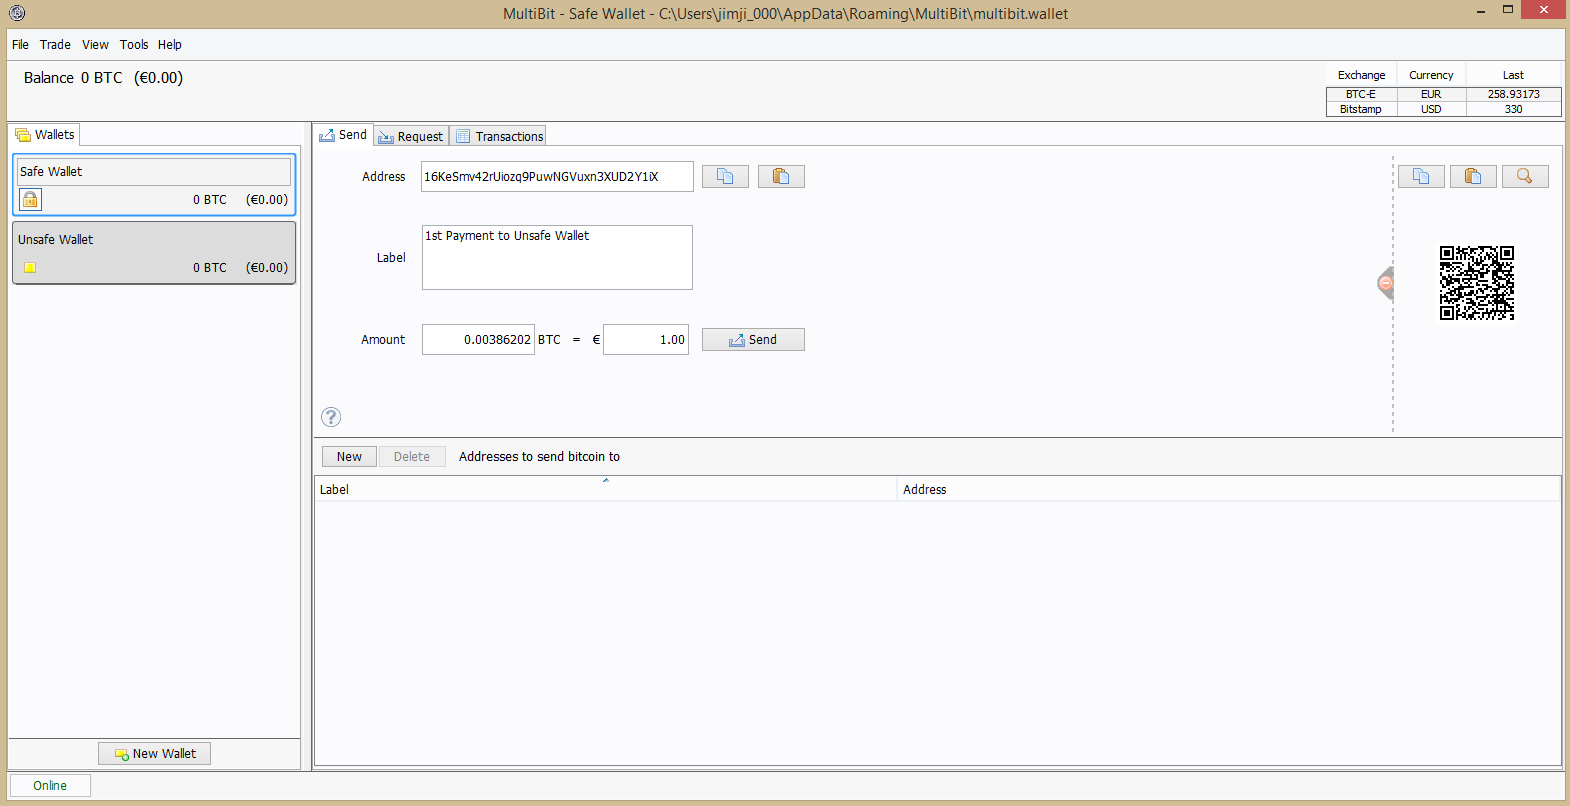
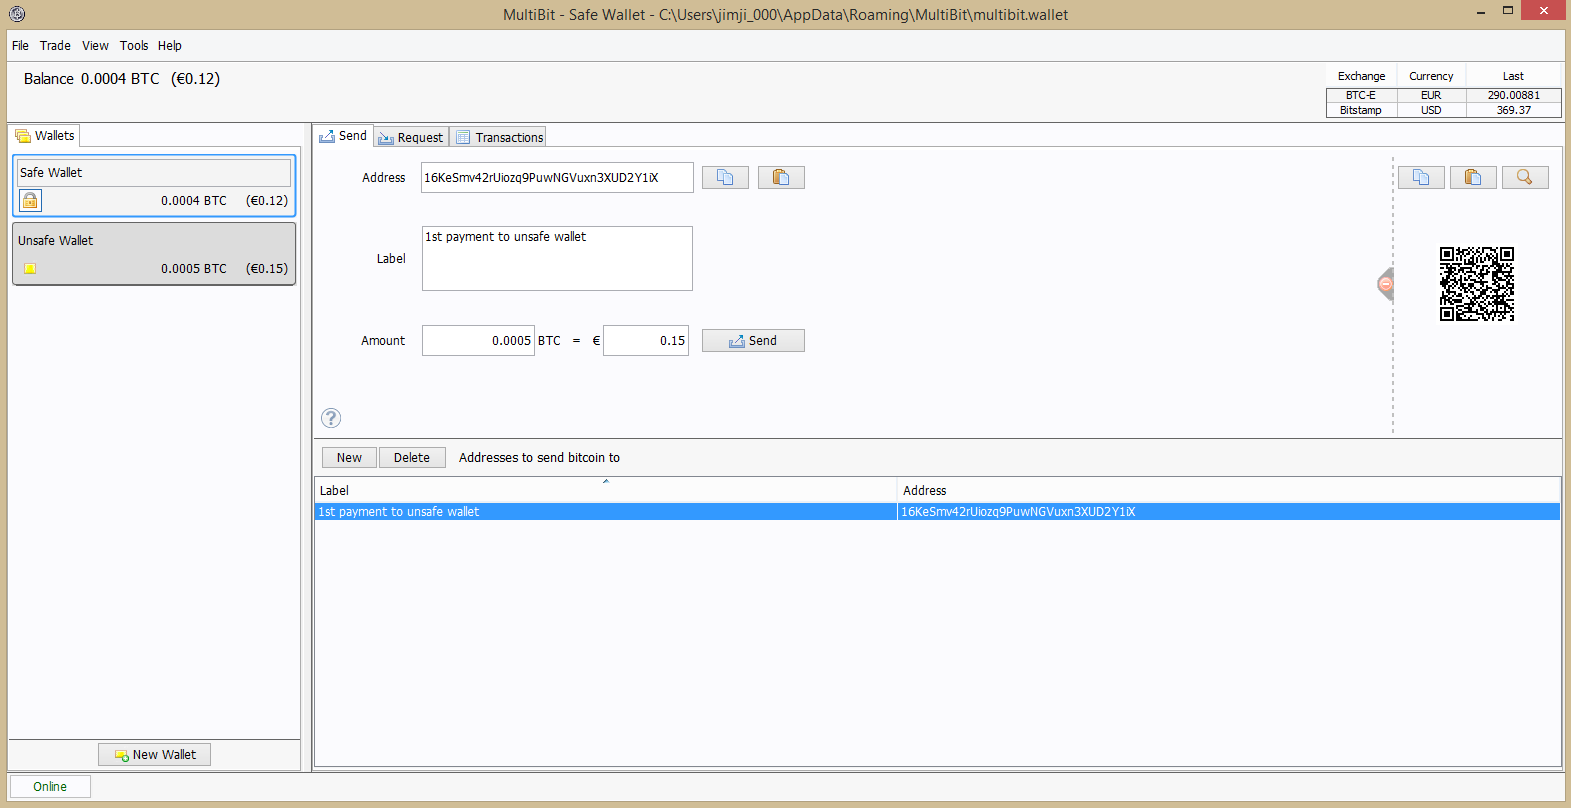
Screenshots update & Typos

diff --git a/exercises/4.md b/exercises/4.md
@@ -78,27 +78,39 @@
 
 Στο πεδίο Address γράφεις τη διεύθυνση του παραλήπτη, στο πεδίο Label κάποια σημείωση σχετικά με τη συναλλαγή και στο πεδίο Amount το ύψος της συναλλαγής, είτε σε bitcoin είτε σε fiat νόμισμα της επιλογής σου. Η τρέχουσα ισοτιμία για το bitcoin φαίνεται στο πάνω δεξιά μέρος του παραθύρου, το οποίο μπορείς να αλλάξεις από την καρτέλα View -> Preferences για το νόμισμα της επιλογής σου.
 
-Όταν πατήσεις το Send θα εμφανιστεί ένα παράθυρο επιβεβαίωσης των στοιχείων της συναλλαγής, όπου όταν πατήσεις τελικά send θα ολοκληρωθεί η αποστολή. Από εκεί και πέρα η συναλλαγή είναι μη αναστρέψιμη και θα εμφανιστεί στο κάτω μέρος της οθόνης αντίστοιχο μήνυμα επιβεβαίωσης.
+Όταν πατήσεις το Send θα εμφανιστεί ένα παράθυρο επιβεβαίωσης των στοιχείων της συναλλαγής, όπως στο σχήμα.
+
+![Multibit confirm send](/exercises/bitcoin/3.PNG)
+
+Όταν πατήσεις το τελικό send, η συναλλαγή πλέον είναι μη αναστρέψιμη και θα εμφανιστεί στο κάτω μέρος της οθόνης αντίστοιχο μήνυμα επιβεβαίωσης.
+
+![Multibit complete send](/exercises/bitcoin/4.PNG)
 
 ### Λήψη bitcoin
 
 Η καρτέλα λήψης φαίνεται στο σχήμα:
 
-![Multibit receive](/exercises/bitcoin/3.PNG)
+![Multibit receive](/exercises/bitcoin/5.PNG)
 
 Για να λάβεις bitcoins αρκεί να έχεις μια διεύθυνση λήψης, ενώ σε κάθε wallet μπορούν να αντιστοιχούν όσες διευθύνσεις λήψης θέλεις. Γενικώς, ενθαρρύνεται να χρησιμοποιείς πολλές διαφορετικές διευθύνσεις, ώστε να ενισχύεται η ανωνυμία, αλλά και να είναι πιο εύκολη η διαχείριση των εσόδων από διαφορετικές πηγές. Για να δημιουργήσεις μια καινούρια διεύθυνση πατάς το New και της βάζεις κάποιο κατάλληλο label, αν θέλεις να τη χρησιμοποιήσεις για συγκεκριμένη πληρωμή.
 
-Μπορείς να ορίσεις αν θέλεις συγκεκριμένο ποσό και κάποιο Label για την πληρωμή στη συγκεκριμένη διεύθυνση. Σε αυτή την περίπτωση, στο δεξί μέρος εμφανίζεται ένα QR Code, το οποίο μπορεί να σκανάρει ο αποστολέας και να προχωρήσει πιο εύκολα στην πληρωμή.
+Μπορείς να ορίσεις, αν θέλεις, συγκεκριμένο ποσό και κάποιο Label για την πληρωμή στη συγκεκριμένη διεύθυνση. Σε αυτή την περίπτωση, στο δεξί μέρος εμφανίζεται ένα QR Code, το οποίο μπορεί να σκανάρει ο αποστολέας και να προχωρήσει πιο εύκολα στην πληρωμή.
 
 **Προσοχή!**
 
-Είτε χρησιμοποιήσεις διεύθυνση, είτε QR Code, θα πρέπει να προσέξεις στον τρόπο που θα το κοινοποιήσεις στον αποστολέα. Αν δε γίνει μέσα από κάποιο ασφαλές κανάλι, υπάρχει περίπτωση να παραποιήσει κάποιος ενδιάμεσος τα στοιχεία σου για να λάβει την πληρωμή. Μια καλή πρακτική σε αυτή την περίπτωση είναι να υπογράφεις τη διεύθυνση ή την εικόνα του QR Code με το GPG κλειδί σου, και να ζητάς το ίδιο όταν θες να κάνεις εσύ στείλεις bitcoin.
+Είτε χρησιμοποιήσεις διεύθυνση, είτε QR Code, θα πρέπει να προσέξεις στον τρόπο που θα το κοινοποιήσεις στον αποστολέα. Αν δε γίνει μέσα από κάποιο ασφαλές κανάλι, υπάρχει περίπτωση να παραποιήσει κάποιος ενδιάμεσος τα στοιχεία σου για να λάβει την πληρωμή. Μια καλή πρακτική σε αυτή την περίπτωση είναι να υπογράφεις τη διεύθυνση ή την εικόνα του QR Code με το GPG κλειδί σου, και να ζητάς το ίδιο όταν θες να κάνεις εσύ στείλεις bitcoins.
 
 ### Ιστορικό συναλλαγών
 
 Στην καρτέλα Transactions μπορείς να δεις το ιστορικό των συναλλαγών, για το συγκεκριμένο wallet.
 
-![Multibit transactions](/exercises/bitcoin/4.PNG)
+![Multibit transactions](/exercises/bitcoin/6.PNG)
+
+Παρατήρησε ότι η συναλλαγή που απεικονίζεται δεν έχει επιβεβαιωθεί ακόμα, παρόλο που ολοκληρώθηκε. Η επιβεβαίωση ολοκληρώνεται όταν πλέον η συναλλαγή έχει συμπεριληφθεί στα καινούρια blocks που εντωμεταξύ δημιουργήθηκαν και για κάποιο συγκεκριμένο βάθος (συνήθως 6 block βάθος).
+
+Μετά από λίγο η συναλλαγή θα έχει ολοκληρωθεί και θα φαίνεται όπως στο σχήμα:
+
+![Multibit confirmed transactions](/exercises/bitcoin/7.PNG)
 
 ## Απόκτηση bitcoin
 
@@ -122,7 +134,7 @@
 
 Για να συνδιαλλαγείς με την τράπεζα θα πρέπει να φτιάξεις ένα λογαριασμό και να παρέχεις κάποια από τα πραγματικά σου στοιχεία, για επιβεβαίωση της ταυτότητάς σου, όπως φαίνεται στο σχήμα.
 
-![Bitstamp verification](/exercises/bitcoin/5.PNG)
+![Bitstamp verification](/exercises/bitcoin/8.PNG)
 
 ### Να πληρωθείς για τη δουλειά σου
 
